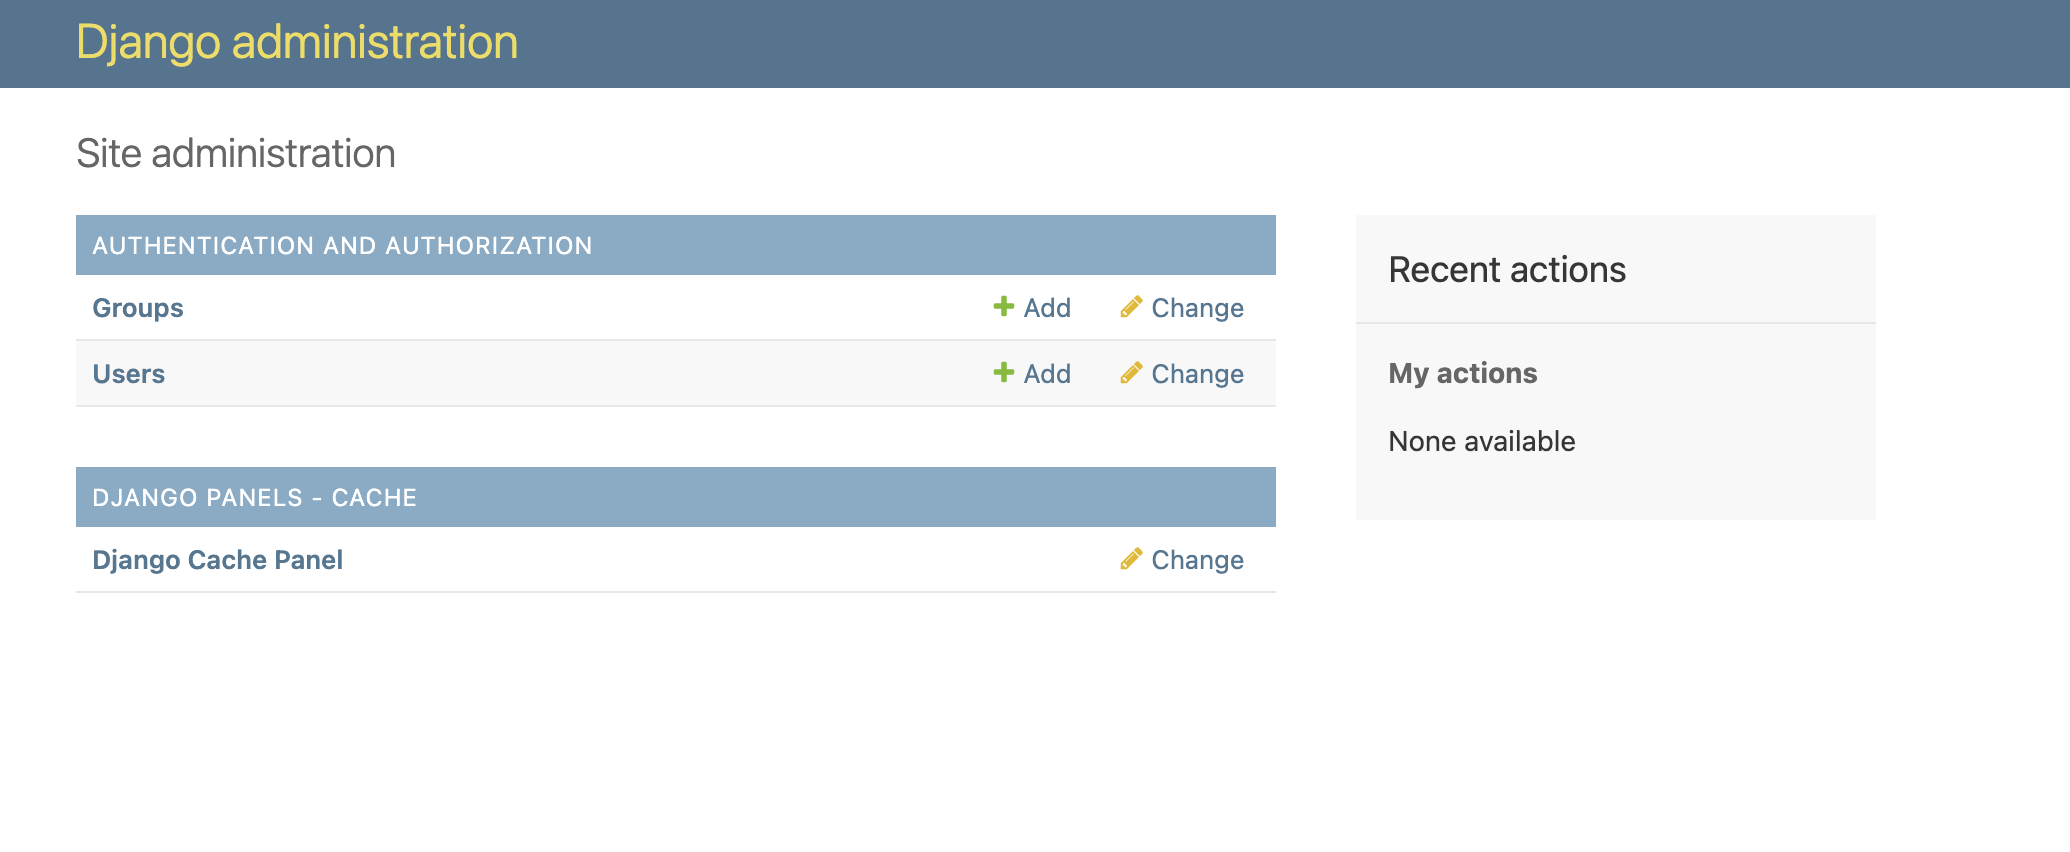
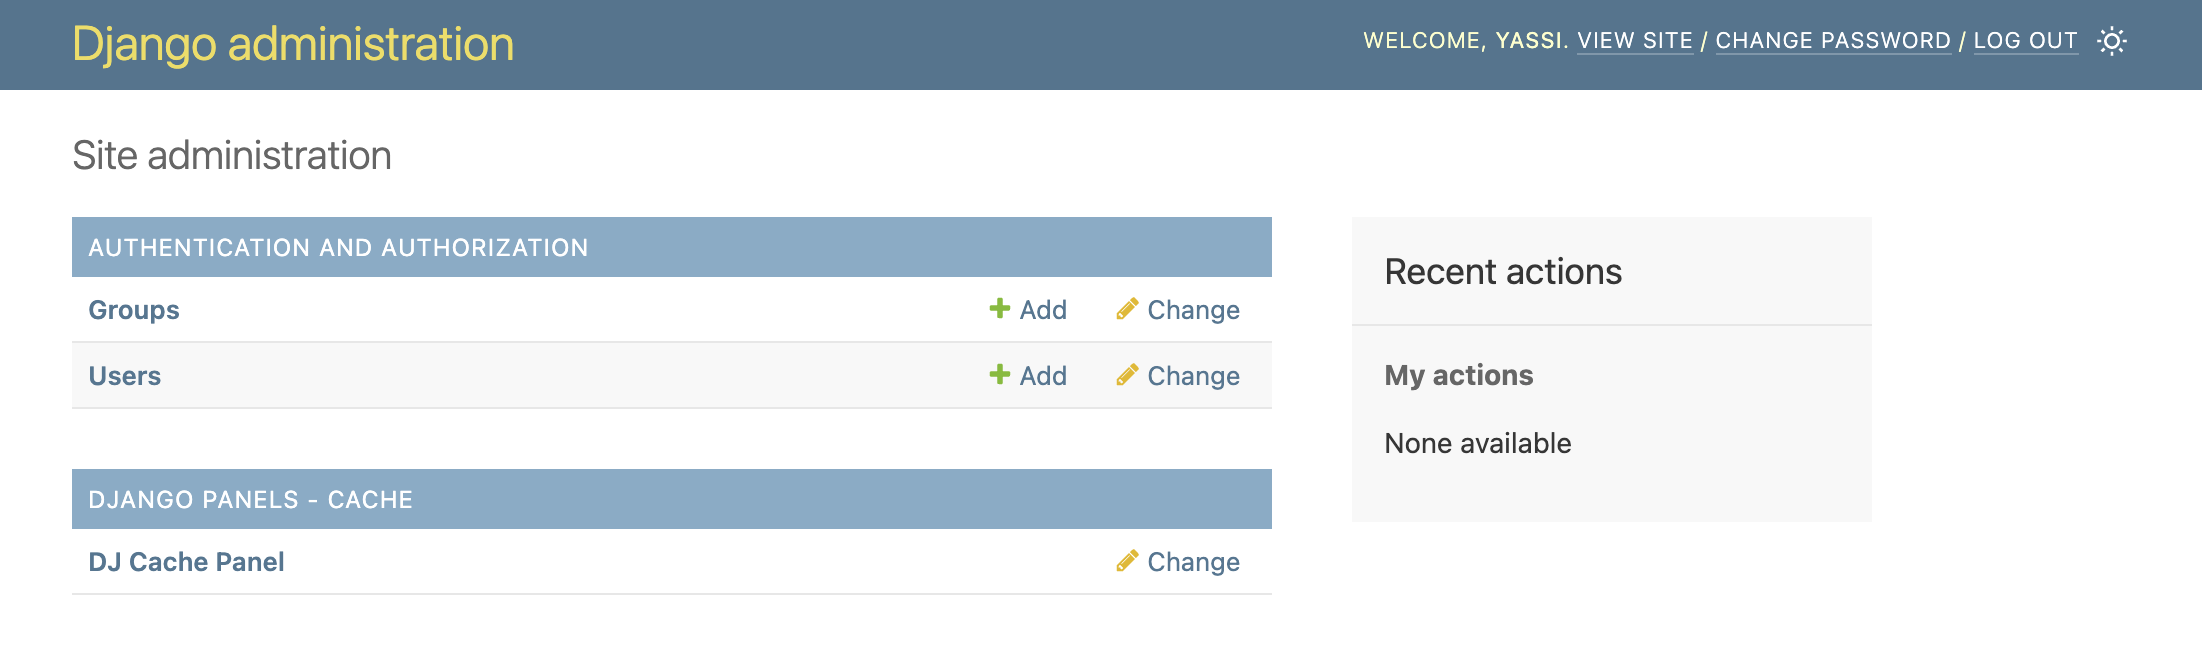
update readme and images

diff --git a/README.md b/README.md
@@ -1,6 +1,6 @@
 # Django Cache Panel
 
-A Django Admin panel for browsing, inspecting, and managing Django cache backends defined in your `CACHES` setting.
+A universal cache inspector for Django.
 
 ![Django Cache Panel - Instance List](https://raw.githubusercontent.com/yassi/dj-cache-panel/main/images/instances_list.png)
 
@@ -10,18 +10,14 @@ A Django Admin panel for browsing, inspecting, and managing Django cache backend
 
 ## Features
 
-- 🔍 **Browse Cache Instances**: View all configured cache backends from your `CACHES` setting
-- 📊 **Abilities Matrix**: See at a glance which operations each cache supports (Query, Get, Delete, Flush)
-- 🔎 **Key Search**: Search and browse cache keys with wildcard patterns (for supported backends)
-- 📄 **Value Preview**: View cache values directly in search results
-- 📑 **Pagination**: Navigate through large sets of keys efficiently
-- 🎯 **Admin Integration**: Seamlessly integrates with Django's admin interface
-- 🔒 **Secure**: Only accessible to staff users
-- 🔌 **Backend Agnostic**: Works with any Django cache backend (with varying feature support)
-
-## Supported Cache Data Types
-
-- **String**: View and edit string values.
+- **Browse Cache Instances**: View all configured cache backends from your `CACHES` setting
+- **Abilities Matrix**: See at a glance which operations each cache supports (Query, Get, Delete, Flush)
+- **Key Search**: Search and browse cache keys with wildcard patterns (for supported backends)
+- **Value Preview**: View cache values directly in search results
+- **Pagination**: Navigate through large sets of keys efficiently
+- **Admin Integration**: Seamlessly integrates with Django's admin interface
+- **Secure**: Only accessible to staff users
+- **Backend Agnostic**: Works with any Django cache backend (with varying feature support)
 
 
 ### Project Structure
@@ -30,7 +26,7 @@ A Django Admin panel for browsing, inspecting, and managing Django cache backend
 dj-cache-panel/
 ├── dj_cache_panel/          # Main package
 │   ├── templates/           # Django templates
-│   ├── cache_utils.py       # Cache utilities
+│   ├── cache_panels.py      # Backend specific panels
 │   ├── views.py             # Django views
 │   └── urls.py              # URL patterns
 ├── example_project/         # Example Django project
@@ -57,9 +53,9 @@ will appear in the same places where your models appear.
 ![Admin Home](https://raw.githubusercontent.com/yassi/dj-cache-panel/main/images/admin_home.png)
 
 ### Caches Overview
-Monitor your cache instances with detailed metrics and database information.
+Get a list of all your caches as well as the allowed capabilities for each cache
 
-![Instance Overview](https://raw.githubusercontent.com/yassi/dj-cache-panel/main/images/instance_overview.png)
+![Instance Overview](https://raw.githubusercontent.com/yassi/dj-cache-panel/main/images/instance_list.png)
 
 
 ## Installation
@@ -97,6 +93,46 @@ CACHES = {
 }
 ```
 
+Additionally, you can also define some extra settings for extending or changing behavior
+of the existing cache panels.
+
+Note: these are advanced settings; the vast majority of django projects will not need to
+define any of these
+
+```python
+DJ_CACHE_PANEL_SETTINGS = {
+    # Optional: completely replace the default backend-to-panel mapping
+    # "BACKEND_PANEL_MAP": {}
+    #
+    # Optional: extend or override specific backend-to-panel mappings
+    # Panel classes can be specified as:
+    #   - Simple class name (e.g., "RedisCachePanel") - for built-in panels
+    #   - Full module path (e.g., "myapp.panels.CustomCachePanel") - for custom panels
+    "BACKEND_PANEL_EXTENSIONS": {
+        # Example: Map a custom backend to a custom panel class
+        # "myapp.backends.CustomCache": "myapp.panels.CustomCachePanel",
+        # Example: Override a built-in backend mapping
+        # "django.core.cache.backends.redis.RedisCache": "myapp.panels.MyRedisCachePanel",
+    },
+    # Optional: per-cache settings overrides
+    # Typically used to lock down a cache instance to only certain abilities
+    "CACHES": {
+        "redis": {
+            "abilities": {  # Optional: override the abilities for this cache instance
+                # "query": True,
+                # "get_key": True,
+                # "delete_key": True,
+                # "edit_key": True,
+                # "add_key": True,
+                # "flush_cache": True,
+            },
+        }
+    },
+}
+```
+
+
+
 
 ### 4. Include URLs
 
@@ -107,7 +143,7 @@ from django.contrib import admin
 from django.urls import path, include
 
 urlpatterns = [
-    path('admin/cache/', include('dj_cache_panel.urls')),  # Add this line
+    path('admin/dj-cache-panel/', include('dj_cache_panel.urls')),  # Add this line
     path('admin/', admin.site.urls),
 ]
 ```
@@ -150,6 +186,9 @@ If you want to contribute to this project or set it up for local development:
 - Redis server running locally
 - Git
 - Autoconf
+- Docker
+
+It is reccommended that you use docker since it will automate much of dev env setup
 
 ### 1. Clone the Repository
 
@@ -158,26 +197,29 @@ git clone https://github.com/yassi/dj-cache-panel.git
 cd dj-cache-panel
 ```
 
-### 2. Create Virtual Environment
+### 2a. Set up dev environment using virtualenv
 
 ```bash
 python -m venv venv
 source venv/bin/activate  # On Windows: venv\Scripts\activate
+
+pip install -e . # install dj-cache-panel package locally
+pip intall -r requirements.txt  # install all dev requirements
+
+# Alternatively
+make install # this will also do the above in one single command
 ```
 
-### 3. Install dj-cache-panel inside of your virtualenv
+### 2b. Set up dev environment using docker
 
-A make file is included in the repository root with multiple commands for building
-and maintaining this project. The best approach is to start by using one of the
-package installation commands found below:
 ```bash
-# Install all dependencies and dj-cache-panel into your current env
-make install
+make docker_up  # bring up all services (redis, memached) and dev environment container
+make docker_shell  # open up a shell in the docker conatiner
 ```
 
-### 4. Set Up Example Project
+### 3. Set Up Example Project
 
-The repository includes an example Django project for development and testing:
+The repository includes an example Django project for development and testing
 
 ```bash
 cd example_project
@@ -185,7 +227,7 @@ python manage.py migrate
 python manage.py createsuperuser
 ```
 
-### 5. Populate Test Data (Optional)
+### 4. Populate Test Data (Optional)
 An optional CLI tool for populating cache keys automatically is included in the
 example django project in this code base.
 
@@ -210,21 +252,10 @@ by invoking pytest directly:
 
 ```bash
 # build and install all dev dependencies and run all tests inside of docker container
-make test
+make test_docker
 
-# Additionally generate coverage reports in multiple formats
-make test_coverage
-```
-
-**Note**: Tests require a running cache backend (e.g., Redis) on `127.0.0.1:6379`. The tests use databases 13, 14, and 15 for isolation and automatically clean up after each test.
-
-### 8. Dockerized Cache Backend
-
-Test for this project (as well as any active development) require an active cache backend installation.
-Although not required, a docker-compose file is included to allow for easy creation of local
-cache instances using redis, memcached, local memory, etc.
-
-```bash
-# Start Redis on localhost and the usual port 6379
-docker-compose up -d
+# Test without the docker on your host machine.
+# note that testing always requires a redis and memcached service to be up.
+# these are mostly easily brought up using docker
+make test_local
 ```
